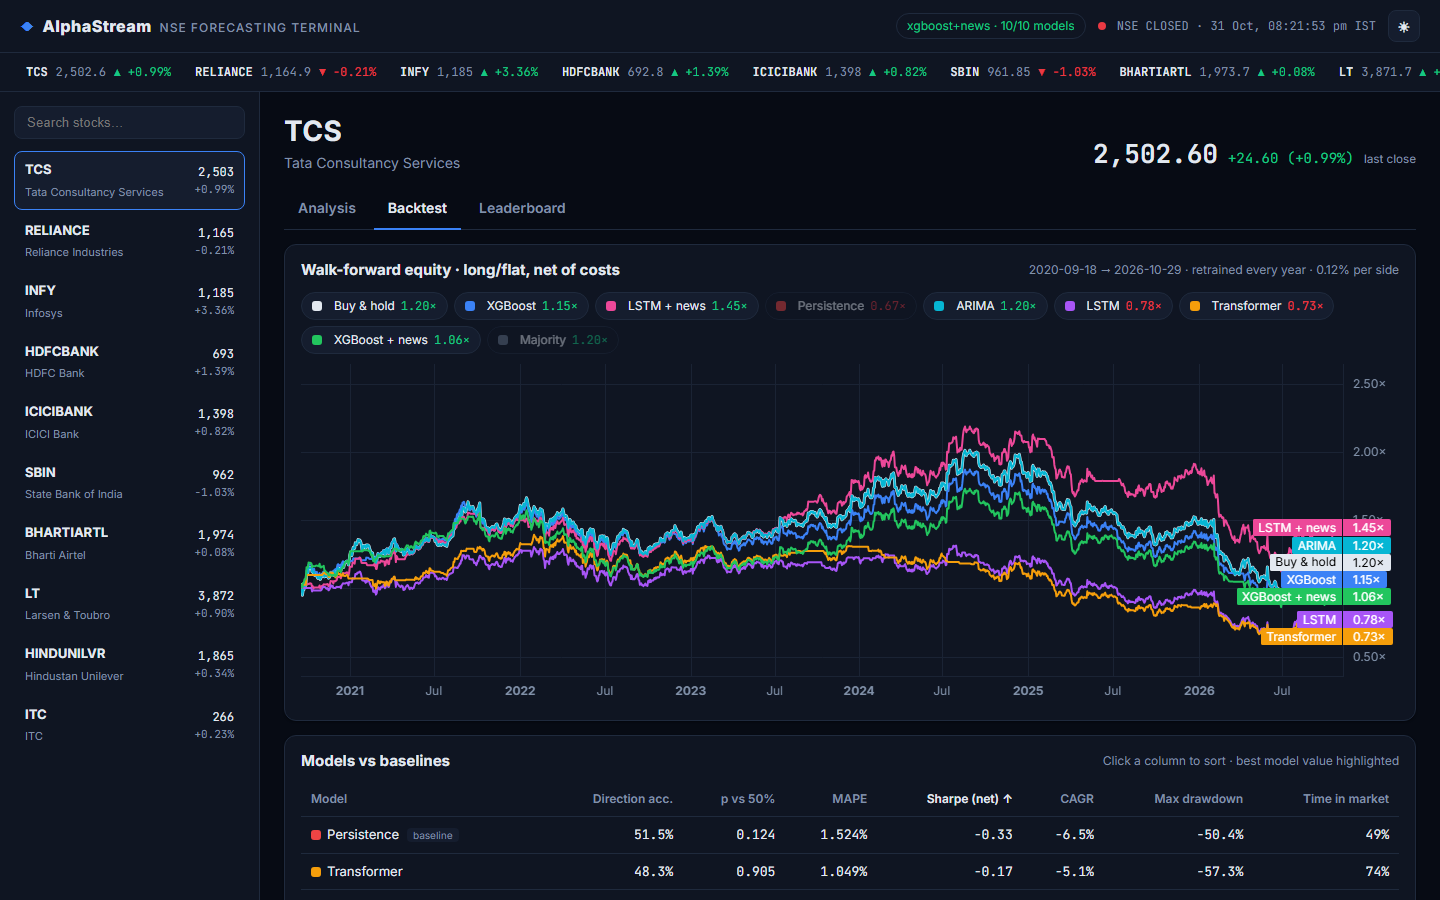
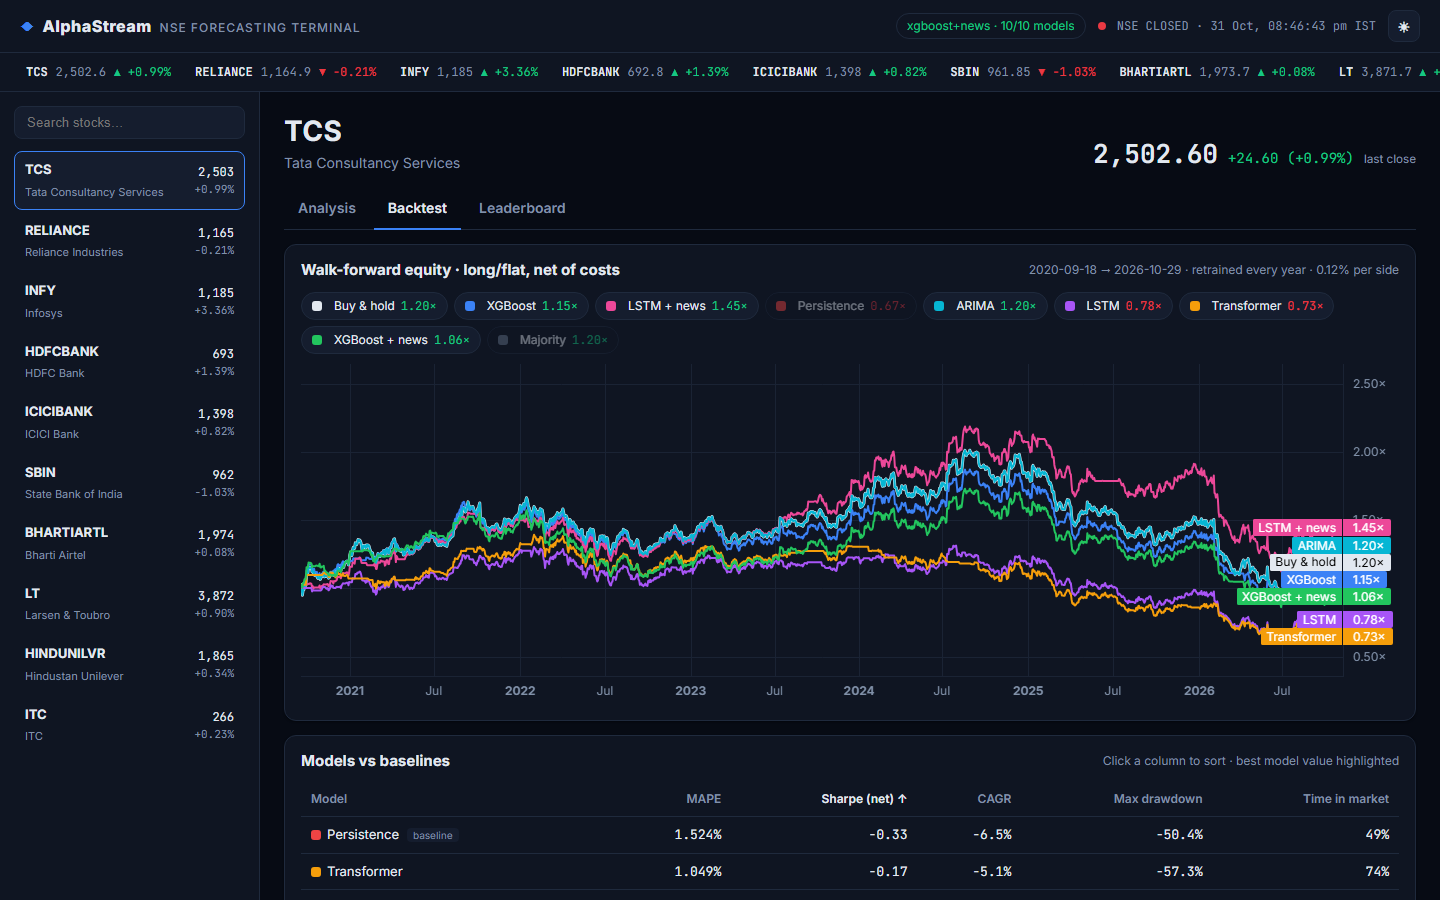
Show strategy returns instead of direction accuracy in the UI
- Analysis: news sentiment card replaces the backtest accuracy card
- Backtest: per-year strategy return vs buy & hold replaces per-year accuracy
- Leaderboard: Sharpe and return vs buy & hold views
- Refresh README screenshots

diff --git a/frontend/src/components/BacktestView.tsx b/frontend/src/components/BacktestView.tsx
@@ -8,8 +8,6 @@ const DEFAULT_VISIBLE = ["buy_and_hold", "xgboost+news", "xgboost", "lstm", "tra
 
 type Col = { key: keyof MetricRow; label: string; fmt: (v: number | null) => string; better: "high" | "low" };
 const COLUMNS: Col[] = [
-  { key: "dir_acc", label: "Direction acc.", fmt: (v) => (v == null ? "–" : `${v.toFixed(1)}%`), better: "high" },
-  { key: "p_vs_50", label: "p vs 50%", fmt: (v) => num(v, 3), better: "low" },
   { key: "mape", label: "MAPE", fmt: (v) => (v == null ? "–" : `${v.toFixed(3)}%`), better: "low" },
   { key: "strat_sharpe", label: "Sharpe (net)", fmt: (v) => num(v), better: "high" },
   { key: "strat_cagr", label: "CAGR", fmt: (v) => pct(v), better: "high" },
@@ -40,7 +38,7 @@ export function BacktestView({ data, theme }: { data: Backtest; theme: string })
         <EquityChart dates={dates} curves={data.equity.curves} visible={visible} onToggle={toggle} theme={theme} />
       </div>
       <MetricsTable rows={data.metrics} />
-      <FoldBars rows={data.metrics} visible={visible} />
+      <YearlyReturns rows={data.metrics} visible={visible} />
     </div>
   );
 }
@@ -114,44 +112,51 @@ function MetricsTable({ rows }: { rows: MetricRow[] }) {
   );
 }
 
-function FoldBars({ rows, visible }: { rows: MetricRow[]; visible: Set<string> }) {
+function YearlyReturns({ rows, visible }: { rows: MetricRow[]; visible: Set<string> }) {
   const folds = [...new Set(rows.filter((r) => r.fold !== "all").map((r) => r.fold))].sort();
-  const models = [...visible].filter((m) => rows.some((r) => r.model === m && r.dir_acc != null));
-  const value = (model: string, fold: string) => rows.find((r) => r.model === model && r.fold === fold)?.dir_acc ?? null;
-  const start = (fold: string) => rows.find((r) => r.fold === fold)?.test_start.slice(0, 4) ?? fold;
+  const series = [...visible].filter((m) => m === "buy_and_hold" || rows.some((r) => r.model === m));
+  const value = (model: string, fold: string) => {
+    const row = rows.find((r) => r.fold === fold && (model === "buy_and_hold" || r.model === model));
+    if (!row) return null;
+    return (model === "buy_and_hold" ? row.bh_total_return : row.strat_total_return) ?? null;
+  };
+  const year = (fold: string) => rows.find((r) => r.fold === fold)?.test_start.slice(0, 4) ?? fold;
 
-  const W = 760, H = 220, pad = 30, lo = 40, hi = 60;
+  const values = folds.flatMap((f) => series.map((m) => value(m, f))).filter((v): v is number => v != null);
+  const top = Math.max(0.1, ...values);
+  const bottom = Math.min(-0.1, ...values);
+  const W = 760, H = 240, pad = 40;
   const groupW = (W - pad * 2) / Math.max(1, folds.length);
-  const barW = Math.max(4, (groupW - 16) / Math.max(1, models.length));
-  const y = (v: number) => H - pad - ((Math.min(hi, Math.max(lo, v)) - lo) / (hi - lo)) * (H - pad * 2);
+  const barW = Math.max(4, (groupW - 16) / Math.max(1, series.length));
+  const y = (v: number) => pad / 2 + ((top - v) / (top - bottom)) * (H - pad * 1.5);
+  const ticks = [bottom, bottom / 2, 0, top / 2, top];
 
   return (
     <div className="panel">
       <div className="panel-head">
-        <h3>Direction accuracy by test year</h3>
-        <span className="muted small">Models shown follow the equity legend · dashed line = coin flip</span>
+        <h3>Return by test year</h3>
+        <span className="muted small">Strategy return per year vs buy & hold · models follow the equity legend</span>
       </div>
-      <svg viewBox={`0 0 ${W} ${H}`} className="folds" role="img" aria-label="Direction accuracy per fold">
-        {[40, 45, 50, 55, 60].map((t) => (
+      <svg viewBox={`0 0 ${W} ${H}`} className="folds" role="img" aria-label="Return per test year">
+        {ticks.map((t) => (
           <g key={t}>
-            <line x1={pad} x2={W - pad} y1={y(t)} y2={y(t)} className={t === 50 ? "axis-50" : "axis"} />
-            <text x={4} y={y(t) + 4} className="axis-label">{t}%</text>
+            <line x1={pad} x2={W - pad / 2} y1={y(t)} y2={y(t)} className={t === 0 ? "axis-50" : "axis"} />
+            <text x={2} y={y(t) + 4} className="axis-label">{`${(t * 100).toFixed(0)}%`}</text>
           </g>
         ))}
         {folds.map((f, i) => (
           <g key={f}>
-            {models.map((m, j) => {
+            {series.map((m, j) => {
               const v = value(m, f);
               if (v == null) return null;
-              const x = pad + i * groupW + 8 + j * barW;
               return (
-                <rect key={m} x={x} width={barW - 2} y={Math.min(y(v), y(50))} height={Math.abs(y(v) - y(50))}
-                  fill={MODEL_COLORS[m] ?? "#94a3b8"} rx={2}>
-                  <title>{`${modelLabel(m)} · ${start(f)}: ${v.toFixed(1)}%`}</title>
+                <rect key={m} x={pad + i * groupW + 8 + j * barW} width={barW - 2} y={Math.min(y(v), y(0))}
+                  height={Math.abs(y(v) - y(0))} fill={MODEL_COLORS[m] ?? "#94a3b8"} rx={2}>
+                  <title>{`${modelLabel(m)} · ${year(f)}: ${(v * 100).toFixed(1)}%`}</title>
                 </rect>
               );
             })}
-            <text x={pad + i * groupW + groupW / 2} y={H - 8} textAnchor="middle" className="axis-label">{start(f)}</text>
+            <text x={pad + i * groupW + groupW / 2} y={H - 6} textAnchor="middle" className="axis-label">{year(f)}</text>
           </g>
         ))}
       </svg>

diff --git a/frontend/src/components/AnalysisView.tsx b/frontend/src/components/AnalysisView.tsx
@@ -2,7 +2,7 @@ import { useMemo, useRef, useState } from "react";
 
 import { api } from "../api";
 import { num, price, signed, signedPct, timeAgo, tone } from "../format";
-import type { Backtest, Prediction, Sentiment } from "../types";
+import type { Prediction, Sentiment } from "../types";
 import { useApi } from "../useApi";
 import { PriceChart } from "./PriceChart";
 
@@ -10,7 +10,7 @@ import { PriceChart } from "./PriceChart";
 const cache = new Map<string, { at: number; data: Prediction }>();
 const MAX_AGE_MS = 10 * 60_000;
 
-export function AnalysisView({ ticker, backtest, theme }: { ticker: string; backtest: Backtest | null; theme: string }) {
+export function AnalysisView({ ticker, theme }: { ticker: string; theme: string }) {
   const [force, setForce] = useState(0);
   const bypassCache = useRef(false);
   const refresh = () => {
@@ -30,11 +30,10 @@ export function AnalysisView({ ticker, backtest, theme }: { ticker: string; back
   if (error) return <ErrorBox message={error} onRetry={refresh} />;
   if (!data || loading) return <AnalysisSkeleton />;
 
-  const served = backtest?.metrics.find((m) => m.model === data.forecast.model && m.fold === "all");
   return (
     <div className="stack">
       <SignalBanner data={data} onRefresh={refresh} />
-      <Kpis data={data} served={served ?? null} />
+      <Kpis data={data} />
       <PriceChart history={data.history} forecast={data.forecast} theme={theme} />
       <div className="grid-3">
         <ModelCard data={data} />
@@ -61,16 +60,17 @@ function SignalBanner({ data, onRefresh }: { data: Prediction; onRefresh: () => 
   );
 }
 
-function Kpis({ data, served }: { data: Prediction; served: Backtest["metrics"][number] | null }) {
+function Kpis({ data }: { data: Prediction }) {
   const f = data.forecast;
   const d = data.decision;
+  const n = data.news;
   return (
     <div className="kpis">
       <Kpi label="Predicted close" value={price(f.predicted_price)} sub={`${f.model} · next session`} />
       <Kpi label="Expected move" value={signedPct(f.predicted_change_pct)} sub={`${signed(f.predicted_change)} vs last close`}
         cls={tone(f.predicted_change)} />
-      <Kpi label="Backtest direction acc." value={served?.dir_acc != null ? `${served.dir_acc.toFixed(1)}%` : "–"}
-        sub={served?.p_vs_50 != null ? `p = ${served.p_vs_50.toFixed(2)} vs coin flip · ${served.n.toLocaleString()} days` : "run backtest.py"} />
+      <Kpi label="News sentiment" value={n.sentiment_label} sub={`score ${num(n.sentiment_score)} · ${n.total_news} headlines`}
+        cls={tone(n.sentiment_label)} />
       <Kpi label="Risk" value={d.risk_level} sub={`score ${d.risk_score}/10`}
         cls={d.risk_level === "HIGH" ? "down" : d.risk_level === "LOW" ? "up" : "flat"} />
     </div>

diff --git a/frontend/src/components/Leaderboard.tsx b/frontend/src/components/Leaderboard.tsx
@@ -7,7 +7,6 @@ import { useApi } from "../useApi";
 import { ErrorBox } from "./AnalysisView";
 
 const METRICS = {
-  dir_acc: { label: "Direction accuracy", centre: 50, span: 4, fmt: (v: number) => `${v.toFixed(1)}%` },
   strat_sharpe: { label: "Sharpe (net)", centre: 0, span: 1, fmt: (v: number) => v.toFixed(2) },
   excess_cagr_vs_bh: { label: "CAGR minus buy & hold", centre: 0, span: 0.3, fmt: (v: number) => `${(v * 100).toFixed(1)}%` },
 } as const;
@@ -89,8 +88,8 @@ export function Leaderboard({ onSelect }: { onSelect: (ticker: string) => void }
         </table>
       </div>
       <p className="muted small">
-        1,512 test days per stock (Sep 2020 – Oct 2026). Green = better than {metric === "dir_acc" ? "a coin flip" :
-        metric === "strat_sharpe" ? "zero" : "buy & hold"}. Click a stock to open it.
+        1,512 test days per stock (Sep 2020 – Oct 2026). Green = better than {metric === "strat_sharpe" ? "zero" :
+        "buy & hold"}. Click a stock to open it.
       </p>
     </div>
   );

diff --git a/frontend/src/App.tsx b/frontend/src/App.tsx
@@ -117,7 +117,7 @@ export default function App() {
             ))}
           </nav>
 
-          {tab === "analysis" && ticker && <AnalysisView ticker={ticker} backtest={backtest.data} theme={theme} />}
+          {tab === "analysis" && ticker && <AnalysisView ticker={ticker} theme={theme} />}
           {tab === "backtest" && (backtest.error ? <ErrorBox message={backtest.error} onRetry={backtest.reload} /> :
             backtest.data ? <BacktestView key={ticker} data={backtest.data} theme={theme} /> :
               <div className="skeleton" style={{ height: 480 }} />)}

diff --git a/frontend/src/types.ts b/frontend/src/types.ts
@@ -123,6 +123,8 @@ export interface MetricRow {
   bh_sharpe: number | null;
   bh_cagr: number | null;
   bh_max_dd?: number | null;
+  strat_total_return?: number | null;
+  bh_total_return?: number | null;
   exposure: number | null;
   excess_cagr_vs_bh?: number | null;
 }

diff --git a/README.md b/README.md
@@ -32,7 +32,7 @@ simple baselines.
     <td colspan="2"><img src="docs/images/leaderboard.png" alt="Leaderboard"></td>
   </tr>
   <tr>
-    <td colspan="2" align="center">Leaderboard: every stock × model by direction accuracy, Sharpe or return vs buy & hold</td>
+    <td colspan="2" align="center">Leaderboard: every stock × model by Sharpe ratio or return vs buy & hold</td>
   </tr>
 </table>
 
